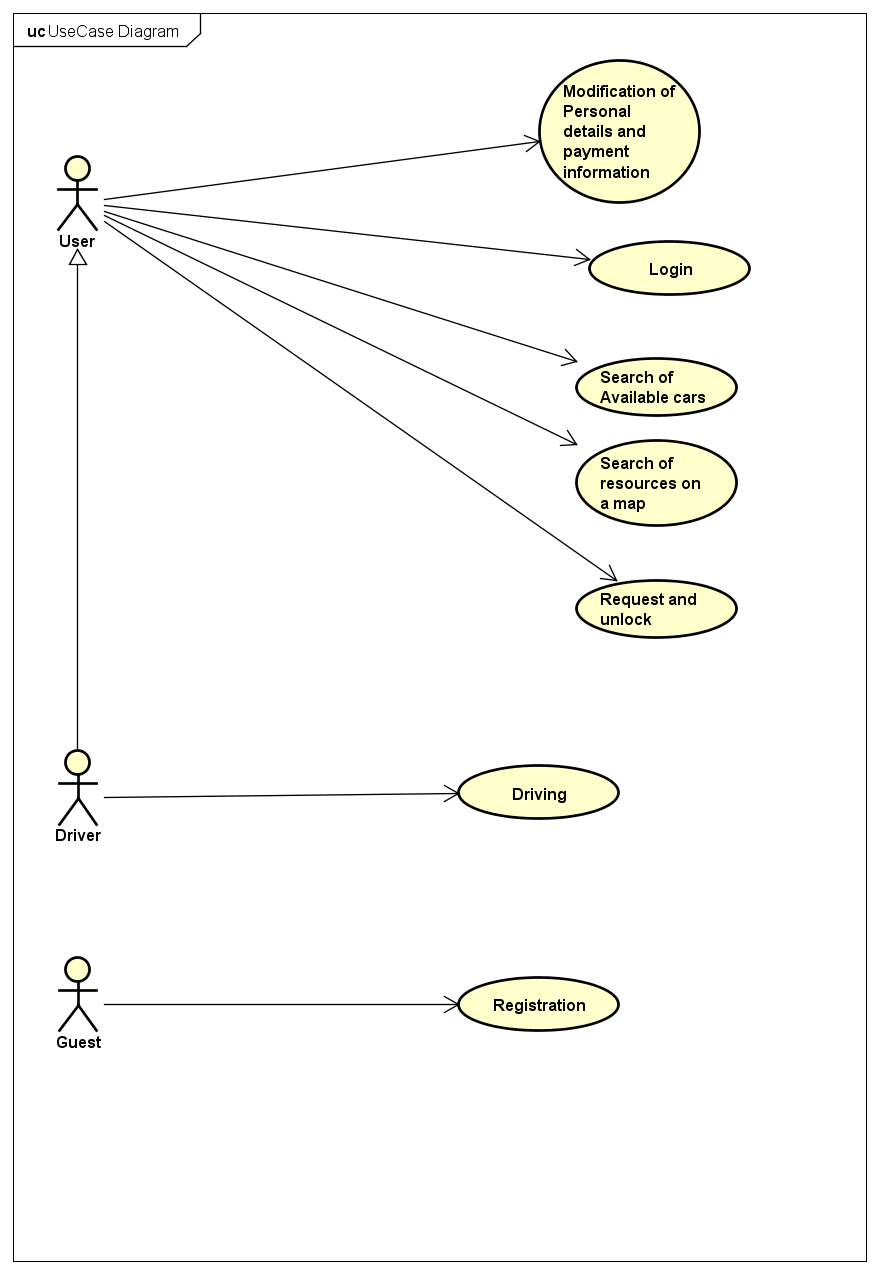
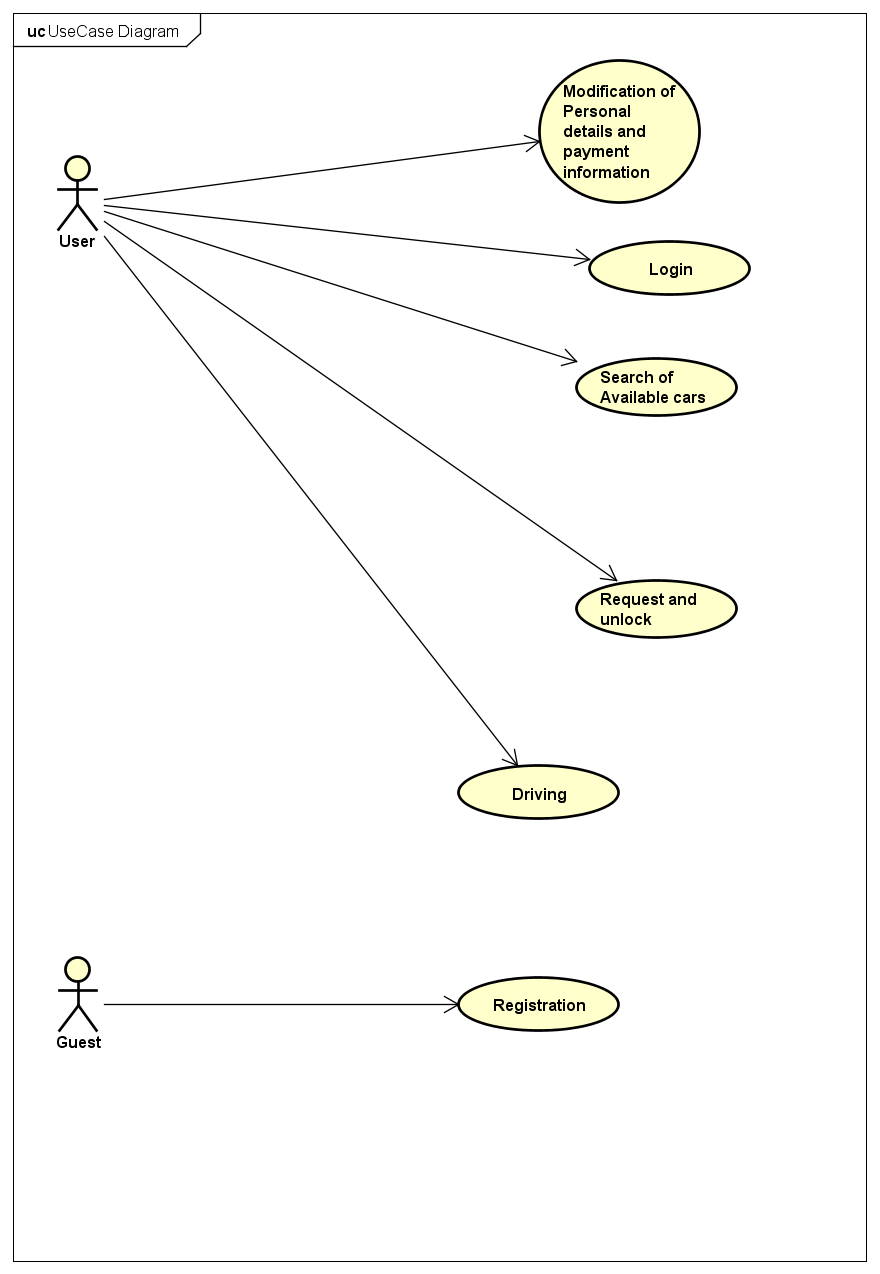
Last sequence diagrams added, little bugs fixed in the document.

Changed region(s): [[0.0614, 0.1837, 0.1227, 0.6735], [0.6443, 0.3367, 0.8591, 0.4286], [0.4909, 0.6122, 0.5216, 0.6429]]

diff --git a/RASD/Specific_Requirements.tex b/RASD/Specific_Requirements.tex
@@ -4,7 +4,7 @@
 
 \subsection{Functional Requirement}
 
-With these requirements are defined features and functions with which
+With these requirements, we define features and functions with which
 the user will interact directly.
 
 
@@ -59,13 +59,14 @@ the user will interact directly.
 	\reqcounter The system shall automatically cancel a car reservation and make the car available again if the User don't unlock the car in one hour and charge with a 1 euro fee.
 	\reqcounter The system shall check for the User position and if the distance from the car is less than 50 meters
 	allow to unlock the car.
+	\reqcounter The system shall allow the user to be informed about the autonomy,the battery level, the model, the engine size of 		the available cars 
 \end{itemize}
 
 \subsubsection{\goal{6}}
 \begin{itemize}
 	\reqcounter The system shall inform the User if she is driving outside the city area.
 	\reqcounter In case of driving outside the city area the system shall charge a 100\%  more of the current charge.
-\end{itemize}
+	\end{itemize}
 
 
 
@@ -75,13 +76,15 @@ the user will interact directly.
 	\reqcounter The system shall inform the User of the amount that will be charged.
 	\reqcounter The system shall inform the User of the position of charging stations nearby the current car position.
 	\reqcounter The system shall show on a map the special parking area and the safe area nerby the current car position.
+           \reqcounter The system shall inform the user if she's driving more than 3 km far from the nearest power grid station
+ 
 \end{itemize}
 
 
 \subsubsection{\goal{8}}
 \begin{itemize}
 	\reqcounter The system shall detect the number of passengers on the car
-	\reqcounter The system shall apply a discount of 10\% on the last ride if it detects the presence of two other passengers on the car in addition to the driver.
+	\reqcounter The system shall apply a discount of 10\% on the last ride if it detects the presence of two other passengers on the car in addition to the user.
 	\reqcounter The system shall check the level of the battery when a car is left.
 	\reqcounter The system shall apply a discount 	of 20\% on the last ride if it detects that the car was left with no more than 50\% of the battery empty.
 	\reqcounter The system shall check if the user plugges the car into the power grid when he left the car in a special parking area.
@@ -93,7 +96,7 @@ the user will interact directly.
 
 \subsubsection{\goal{9}}
 \begin{itemize}
-	\reqcounter The system shall detect the car turning off and the closure of the doors and stop charging the driver after this two actions are accomplished
+	\reqcounter The system shall detect the car turning off and the closure of the doors and stop charging the user after this two actions are accomplished
 	
 \end{itemize}
 
@@ -116,7 +119,7 @@ the user will interact directly.
 
 The service has to guarantee an 24h/7d availability. Components of the project code will be tested after the implementation phase to ensure that they are functional. 
 All the critical software bugs found must be patched in at least 48h.
-If a Backend API change must guarantee support for client that implement older API.
+If a Back-End API change occurs, it must be guaranteed a support for clients that implement older API.
 All the system data must be constantly backed up to assure the data recovery in case of fault.
 
 \subsubsection{Security}
@@ -158,8 +161,8 @@ protocols such as HTTP and SSL/TLS, plus proxy support.
 \pagebreak
 \input{UseCase}
 
-\subsection{Activity Diagram}
-\subsubsection{PowerEnJoy Trip}
+\section{Activity Diagram}
+\subsection{PowerEnJoy Trip}
 \begin{figure}[h]
 	\centering
 	\includegraphics[width=345px]{img/activity_trip}
@@ -168,7 +171,7 @@ protocols such as HTTP and SSL/TLS, plus proxy support.
 \FloatBarrier
 
 \pagebreak
-\subsection{Class Diagram}
+\section{Class Diagram}
 \subsubsection{PowerEnJoy server}
 \begin{figure}[h]
 	\centering

diff --git a/RASD/UseCase.tex b/RASD/UseCase.tex
@@ -186,26 +186,26 @@
 
 \subsubsection{Driving}
 \usecase{Driving}
-{Driver}
+{User}
 {\goal{6} \newline \goal{8} \newline \goal{9}}
-{Driver is logged in and has searched, requested and unlocked a car}
+{User is logged in and has searched, requested and unlocked a car}
 {-}
 {
 \begin{enumerate}
-\item Driver enters the car, eventually also other passengers enter the car
-\item Driver starts driving
+\item User enters the car, eventually also other passengers enter the car
+\item User starts driving
 \item The system detects the number of passengers
 \item The screen shows a map with the position of the car, the safe areas and special parking areas near the car position
 \item The screen shows the money to be charged up to the current moment
 \item The system charges the standard fee every minute.
-\item Driver parks and exit the car and, if any, the other passengers exit the car
+\item User parks and exit the car and, if any, the other passengers exit the car
 \item The system locks the car
 \item The system detects the level of the battery
 \item The system detects if the car has been plugged in a power grid
 \item The system detects the position of the left car
 \item The system applies a discount on the ride of the:
 	\begin{itemize}
-	\item 10\%, if it has detected the presence of at least two other passengers in addition to the driver during the travel
+	\item 10\%, if it has detected the presence of at least two other passengers in addition to the user during the travel
 	\item 20\%, if it has detected that the car was left with no more than the 50\% of the battery empty
 	
 	\end{itemize}
@@ -216,15 +216,15 @@
 }
 {
 	\begin{itemize}
-	\item Before the last step, the system detects the presence of at least two other passengers in addition to the driver during the 		         travel and so applies a 10\% discount on the ride
+	\item Before the last step, the system detects the presence of at least two other passengers in addition to the user during the 		         travel and so applies a 10\% discount on the ride
 	\item Before the last step, the system detects that the car was left with no more than the 50\% of the battery empty and so 			         applies a 10\% discount on the ride
-	\item At step 7 the Driver parks the car in a special parking area and plugs the car into the power grid. Before the last step the 
+	\item At step 7 the User parks the car in a special parking area and plugs the car into the power grid. Before the last step the 
 	         the system detects that the car has been plugged into the power grid and so applies a 20\% discount on the ride
-	\item While driving the Driver exits the city area. So:
+	\item While driving the User exits the city area. So:
 		\begin{enumerate}
 		\item An acoustic signal is emitted by the screen
-		\item A message is shown on the screen, warning the Driver that he has exited the city area
-		\item The system charges the 100\% more than the standard fee every minute until the driver re-enters in the city area
+		\item A message is shown on the screen, warning the User that he has exited the city area
+		\item The system charges the 100\% more than the standard fee every minute until the user re-enters in the city area
 		\end{enumerate} 
 	\end{itemize}
 

diff --git a/RASD/goals.tex b/RASD/goals.tex
@@ -1,10 +1,10 @@
 %<*1>Allow guests to register to "PowerEnJoy'' service through both website or mobile application.%</1>
 %<*2>Allow registered users to login and logout.%</2>
 %<*3>Allow authenticated users to modify their personal details and payment informations.%</3>
-%<*4>Allow authenticated users to view a list or a map of available cars and safe areas in a configurable radius of distance from user position or specified address.%</4>
+%<*4>Allow authenticated users to view a list or a map of available cars, safe areas and special parking areas in a configurable radius of distance from user position or specified address.%</4>
 %<*5>Allow authenticated users to request for pick up an available car for a limited time and unlock it when the User is in proximity.%</5>
-%<*6>Allow authenticated users to drive the unlocked car inside the border of the city.%</6>
-%<*7>Allow driver to be constantly informed about the service through a screen on the car.%</7>
+%<*6>Allow authenticated users to drive the unlocked car inside or outside the border of the city.%</6>
+%<*7>Allow user to be constantly informed about the service through a screen on the car.%</7>
 %<*8>Allow the User to get a modified fee in base of pick up/parking position of the car, number of passengers and status of the battery.%</8>
-%<*9> Allow the driver to conclude his travel and stop being charged after he turns off and exits the car.%</9>
+%<*9> Allow the user to conclude his travel and stop being charged after he turns off and exits the car.%</9>
 %<*10> Allow the user to put the car in charge when he leaves it in a special parking area.%</10>

diff --git a/RASD/Sequence_diagram.tex b/RASD/Sequence_diagram.tex
@@ -3,25 +3,31 @@
 \begin{figure}[H]
 	\centering
 	\includegraphics[width = \textwidth]{img/sequence1}
-	\caption{User Registration Sequence Diagram}
+	\caption{User Registration Sequence Diagram (Use Case 3.3.2)}
 \end{figure}
 
 \begin{figure}[H]	
 	\centering
 	\includegraphics[width = \textwidth]{img/sequence2}
-	\caption{User Login Sequence Diagram}
+	\caption{User Login Sequence Diagram (Use Case 3.3.3)}
 \end{figure}
 
 \begin{figure}[H]	
 	\centering
 	\includegraphics[width = \textwidth]{img/sequence3}
-	\caption{Personal information update Sequence Diagram}
+	\caption{Personal information update Sequence Diagram (Use Case 3.3.4)}
+\end{figure}
+
+\begin{figure}[H]
+	\centering
+	\includegraphics[width = \textwidth]{img/sequence4}
+	\caption{Common trip case Sequence Diagram (Use Cases 3.3.6,3.3.7)}
 \end{figure}
 
 \begin{figure}[H]
 	\centering
 	\includegraphics[width = \textwidth]{img/sequence_trip}
-	\caption{Common trip case Sequence Diagram}
+	\caption{Common trip case Sequence Diagram (Use Cases 3.3.6,3.3.7)}
 \end{figure}
 
 

diff --git a/RASD/Overall_Description.tex b/RASD/Overall_Description.tex
@@ -52,8 +52,8 @@ The website must be reactive and usable with the major version of the most commo
 	\item The user is the one and only who drives the cars he reserves.
 	\item Any user who reserves a car has enough money on his credit card to pay the travel.
 	\item Every car is periodically checked to ensure proper operation.
-	\item The travel of a driver is considered finished when the the engine is off and after a minute from the moment in which he closes the car doors.
-	\item Power EnJoy offers various models of cars with different engine sizes
+	\item The travel of a user is considered finished when the the engine is off and after a minute from the moment in which he closes the car doors.
+	\item PowerEnJoy offers various models of cars with different engine sizes
 \end{enumerate}
 
 \subsection{Regulatory policies}

diff --git a/RASD/Introduction.tex b/RASD/Introduction.tex
@@ -15,7 +15,6 @@ The system the has to be developed is called \emph{PowerEnJoy}. It is a digital 
 	\item User: is a general person who uses ``PowerEnJoy''.
 	\item Registered User: a user that have completed the registration process.
 	\item Guest: a visitor, not authenticated user.
-	\item Driver: authenticated user that drive the requested car.
 	\item Car reservation: allocation of a car for a defined amount of time.
 	\item Safe area: area in which the User can find cars, pick them up and park them.
 	\item Special parking area: area in which the user can park the car and also charge it plugging it into the power grid. 

diff --git a/RASD/RASD.tex b/RASD/RASD.tex
@@ -230,6 +230,8 @@ Andrea Millimaggi Matr. 876062}
 
 \input{Specific_Requirements}
 
+
+
 \pagebreak
 \input{Alloy}
 
